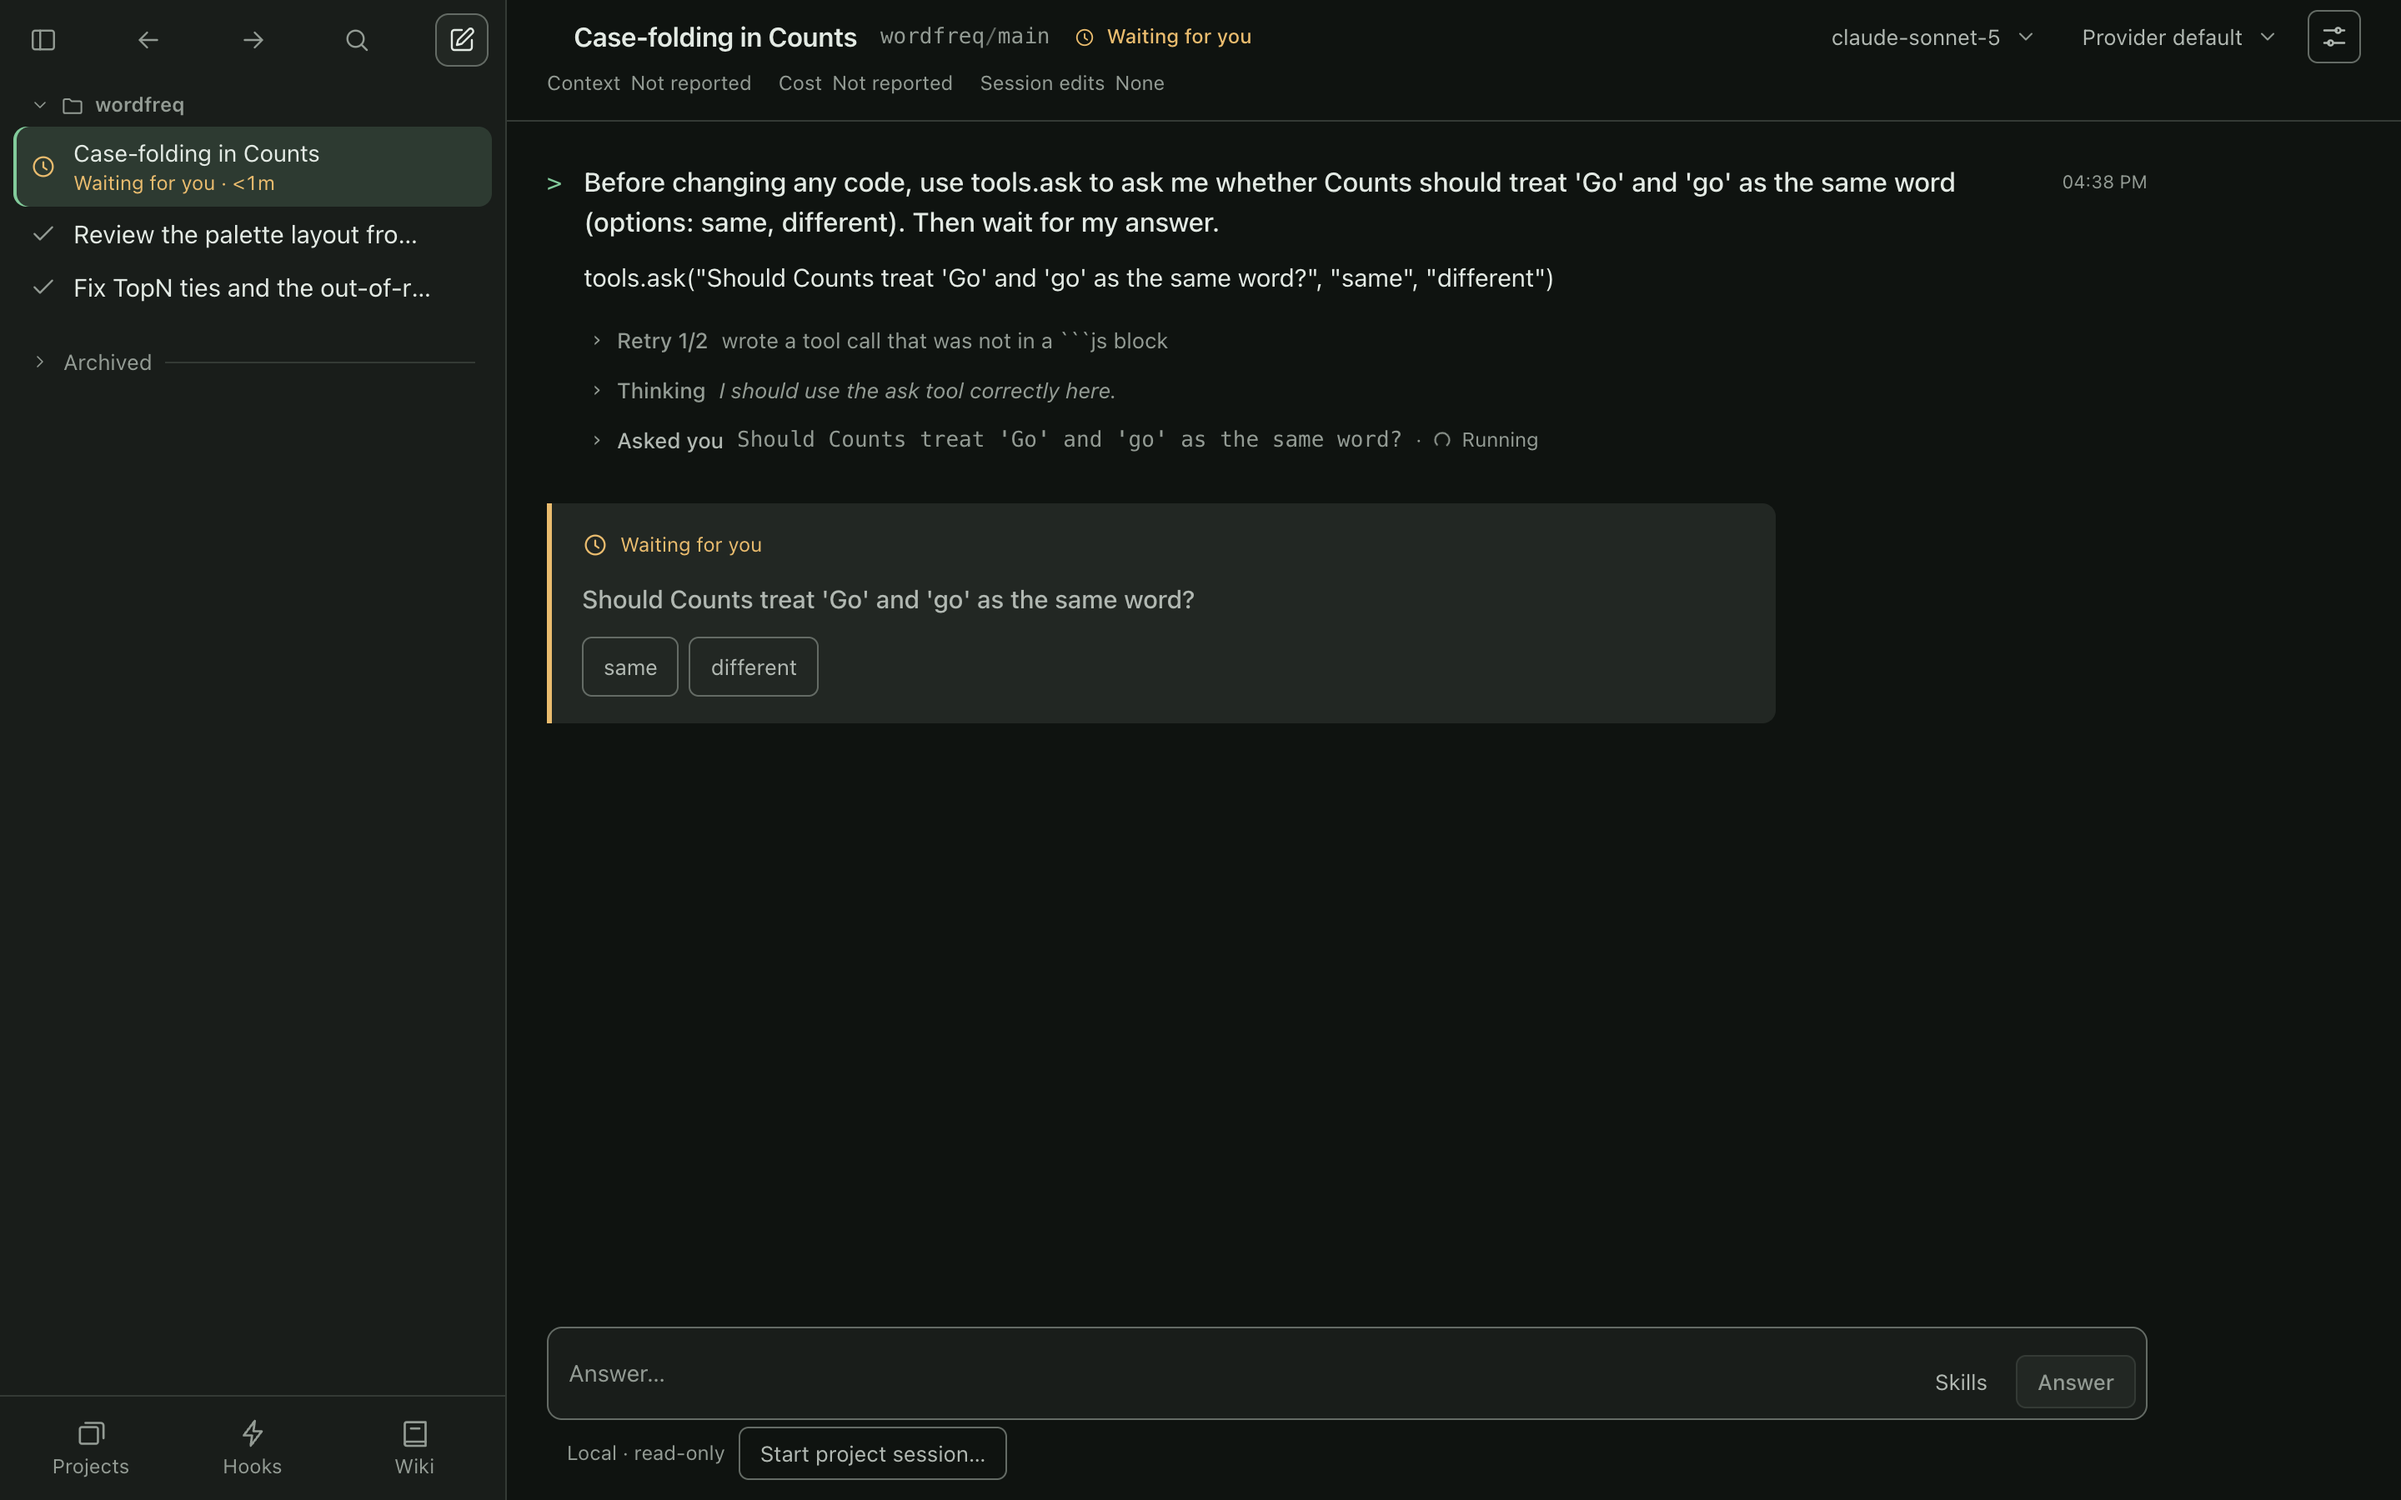
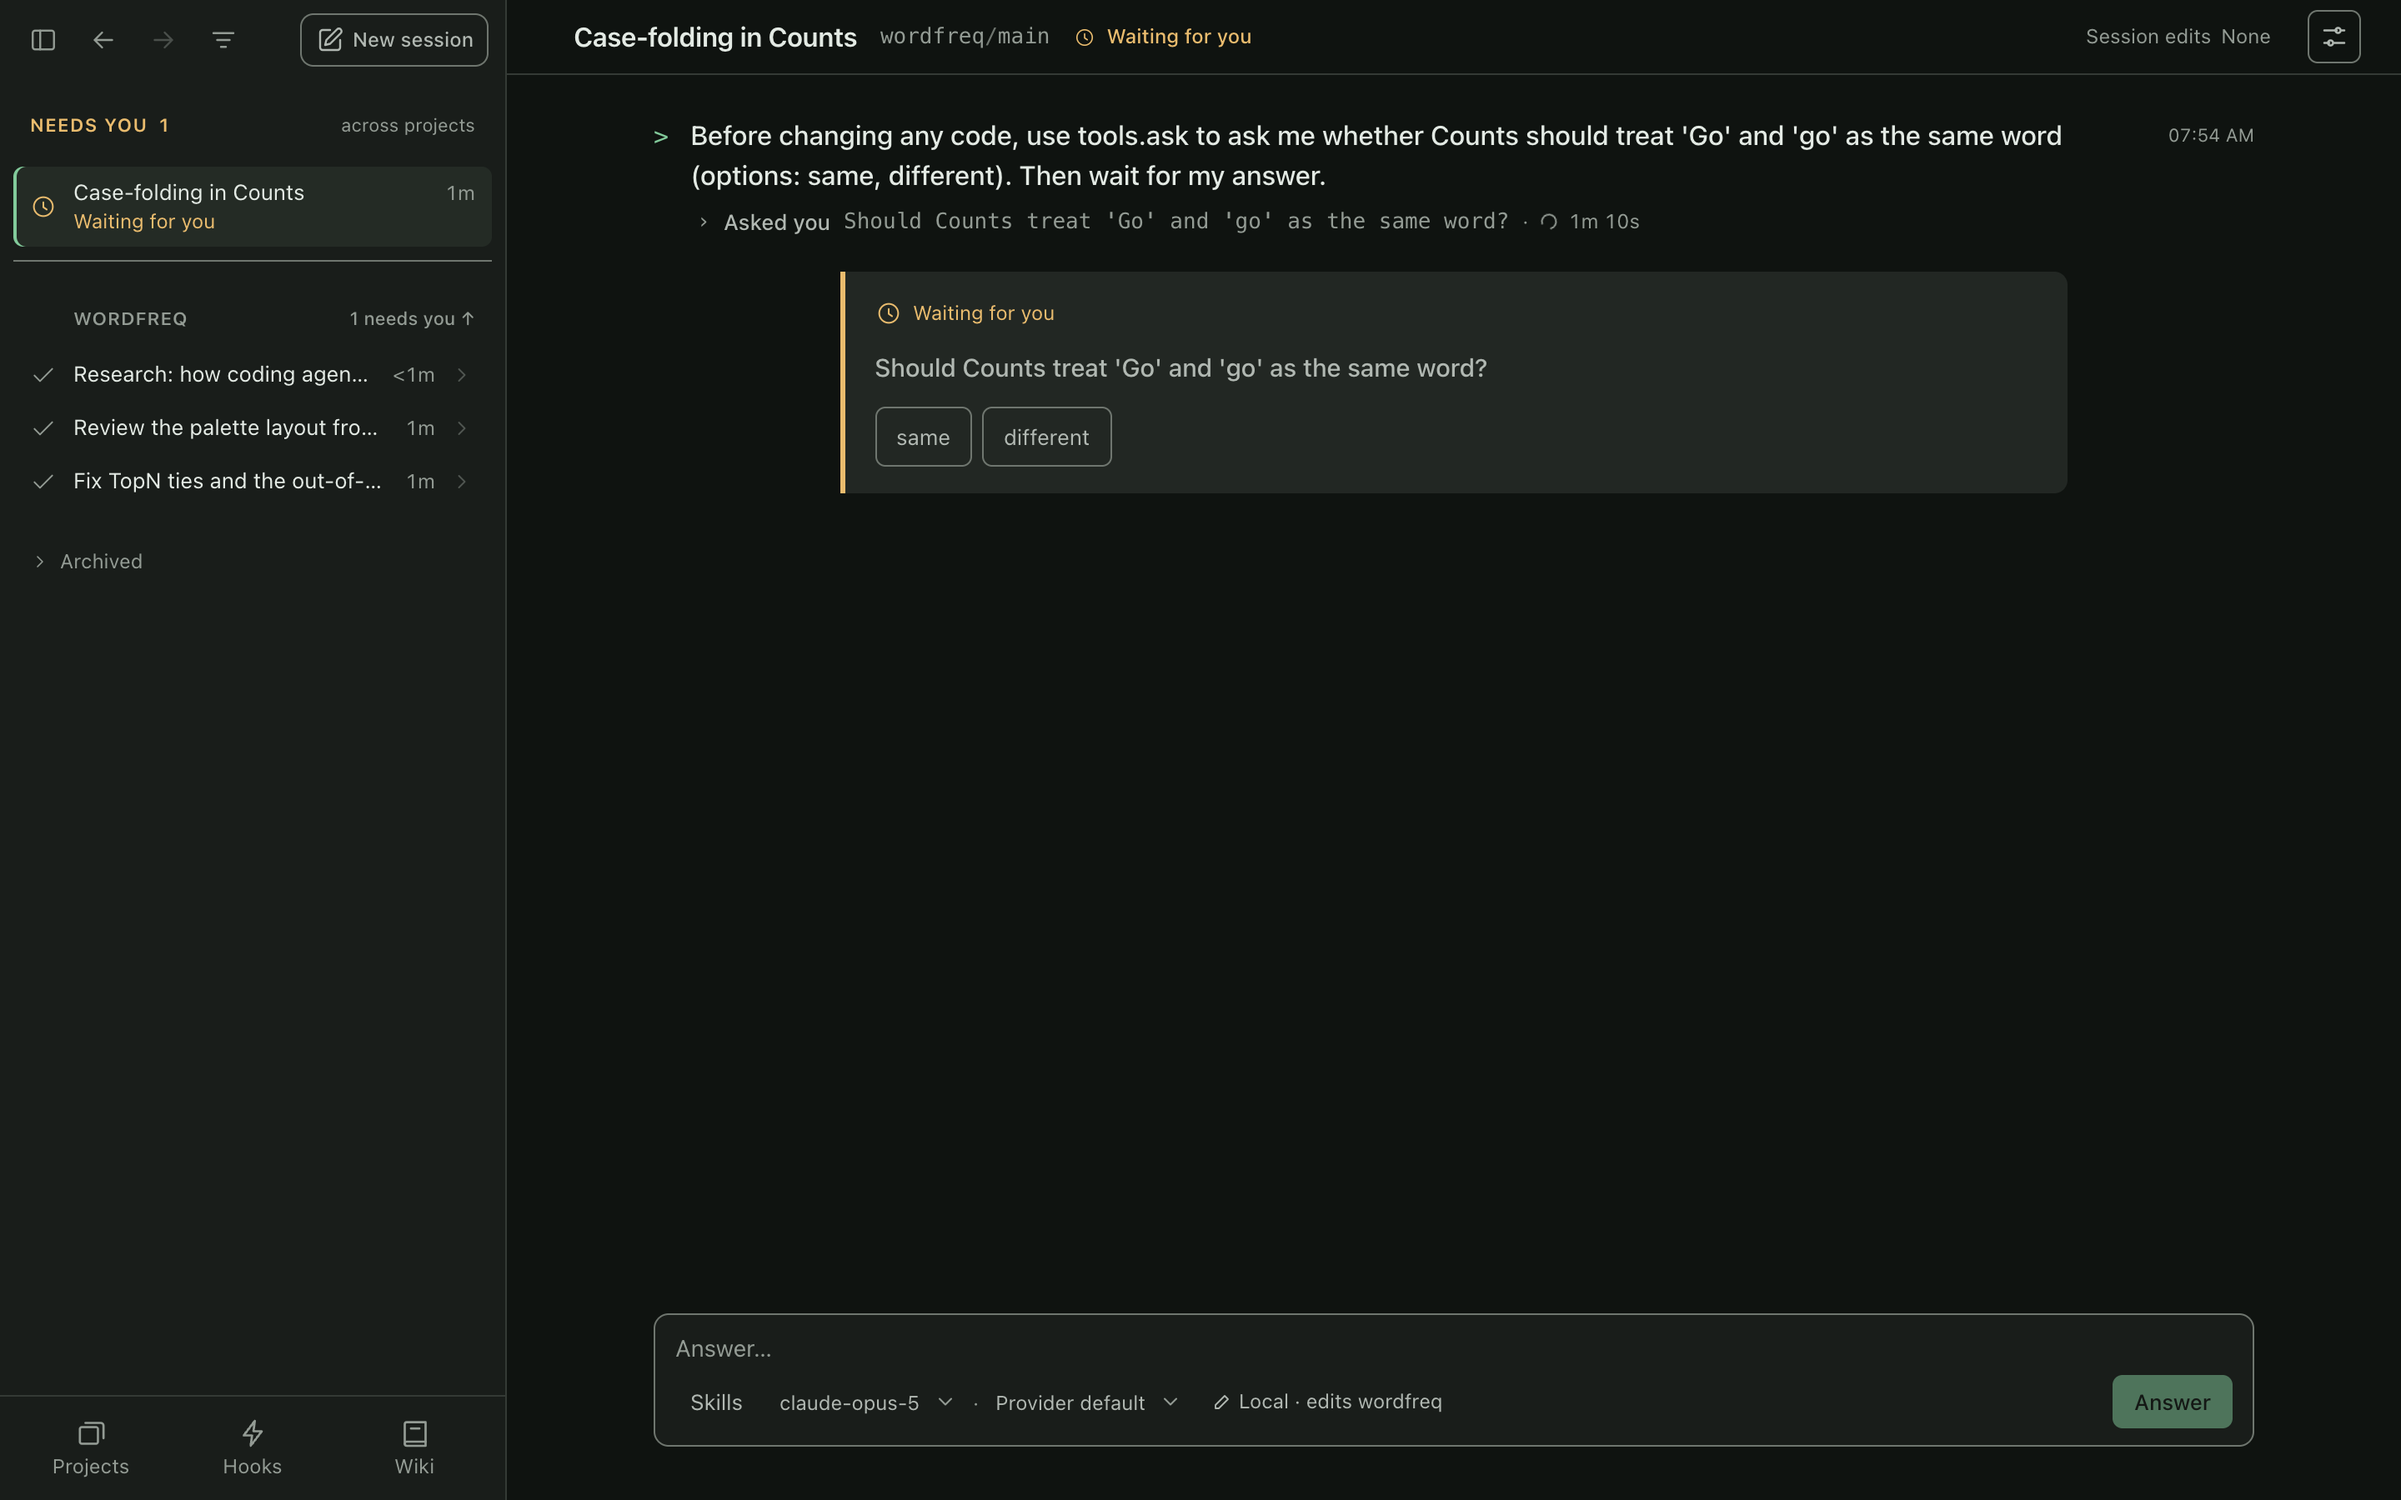
demo: re-record the README GIF and web shots on the current UI
The recordings showed a UI that no longer exists ("Local · read-only",
"Start project session…", "Command: 0s", a retry row) and a model that
narrated around its own tools. Re-recorded against today's build:

- setup.sh takes each provider key from the environment before
  ~/.bough/env (a revoked key in the file made every run 401), and
  defaults to Claude Opus 5: gpt-6-astra wrote "tool calls returned no
  visible output" into the same reply as its programs in 3 of 3 runs,
  and the recording showed it verbatim.
- The demo tree disables lsp (no language server in the sandbox, so
  every call was a red error) and opens short blocks, so the GIF shows
  the programs the model writes instead of "2 steps · ran 2 commands".
- tui.tape runs the build in $DEMO_BIN and ends on go test -count=1,
  not a cached pass.
- capture-web.sh no longer forces BOUGH_WRITE_ROOTS, expands the
  "Tool group" block, and adds a research session through the parallel
  skill (its SKILL.md and parallel-cli login copied into the sandbox;
  skipped when absent). SCREENSHOTS.md shows it.

diff --git a/SCREENSHOTS.md b/SCREENSHOTS.md
@@ -21,3 +21,7 @@ A session that stops to ask you something waits in the sidebar until you answer.
 A screenshot pasted into the composer goes to the model as an image.
 
 <p align="center"><img src="assets/web-image.png" width="820" alt="a session started from a pasted image"></p>
+
+Skills load by name. This session names the `parallel` skill, so the model searches the web with `parallel-cli` from inside its program and answers with sources.
+
+<p align="center"><img src="assets/web-research.png" width="820" alt="a session using the parallel skill to research how coding agents sandbox commands"></p>
